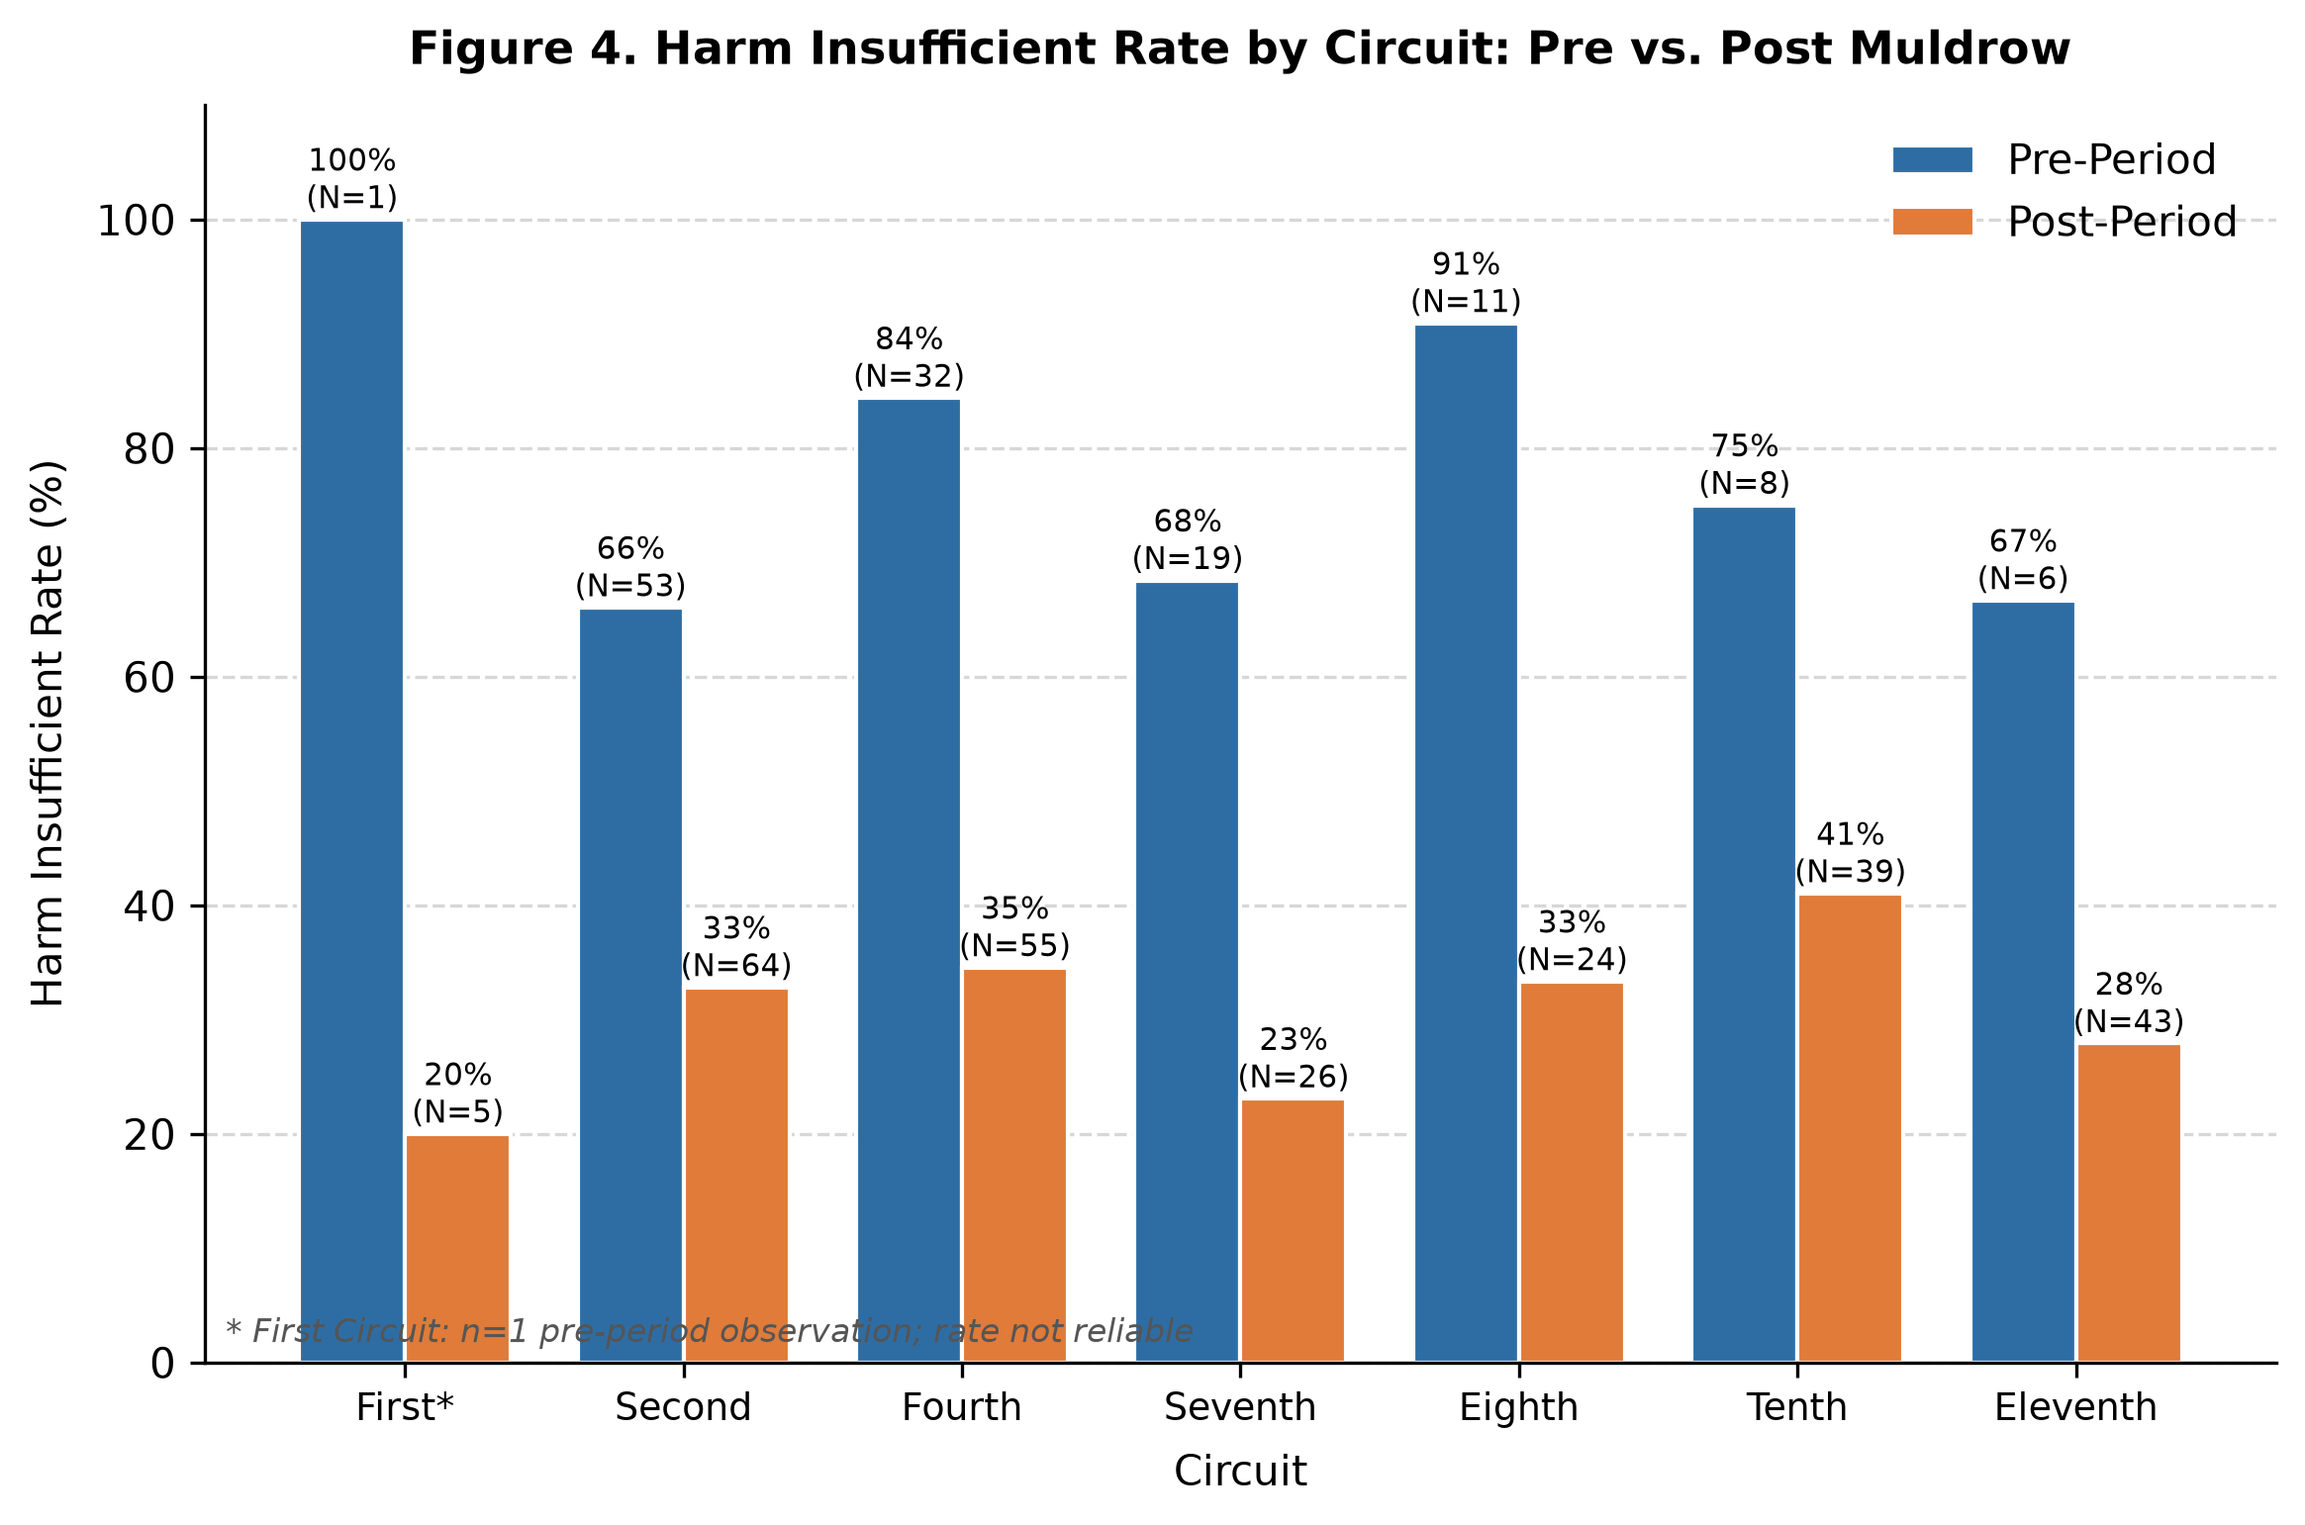
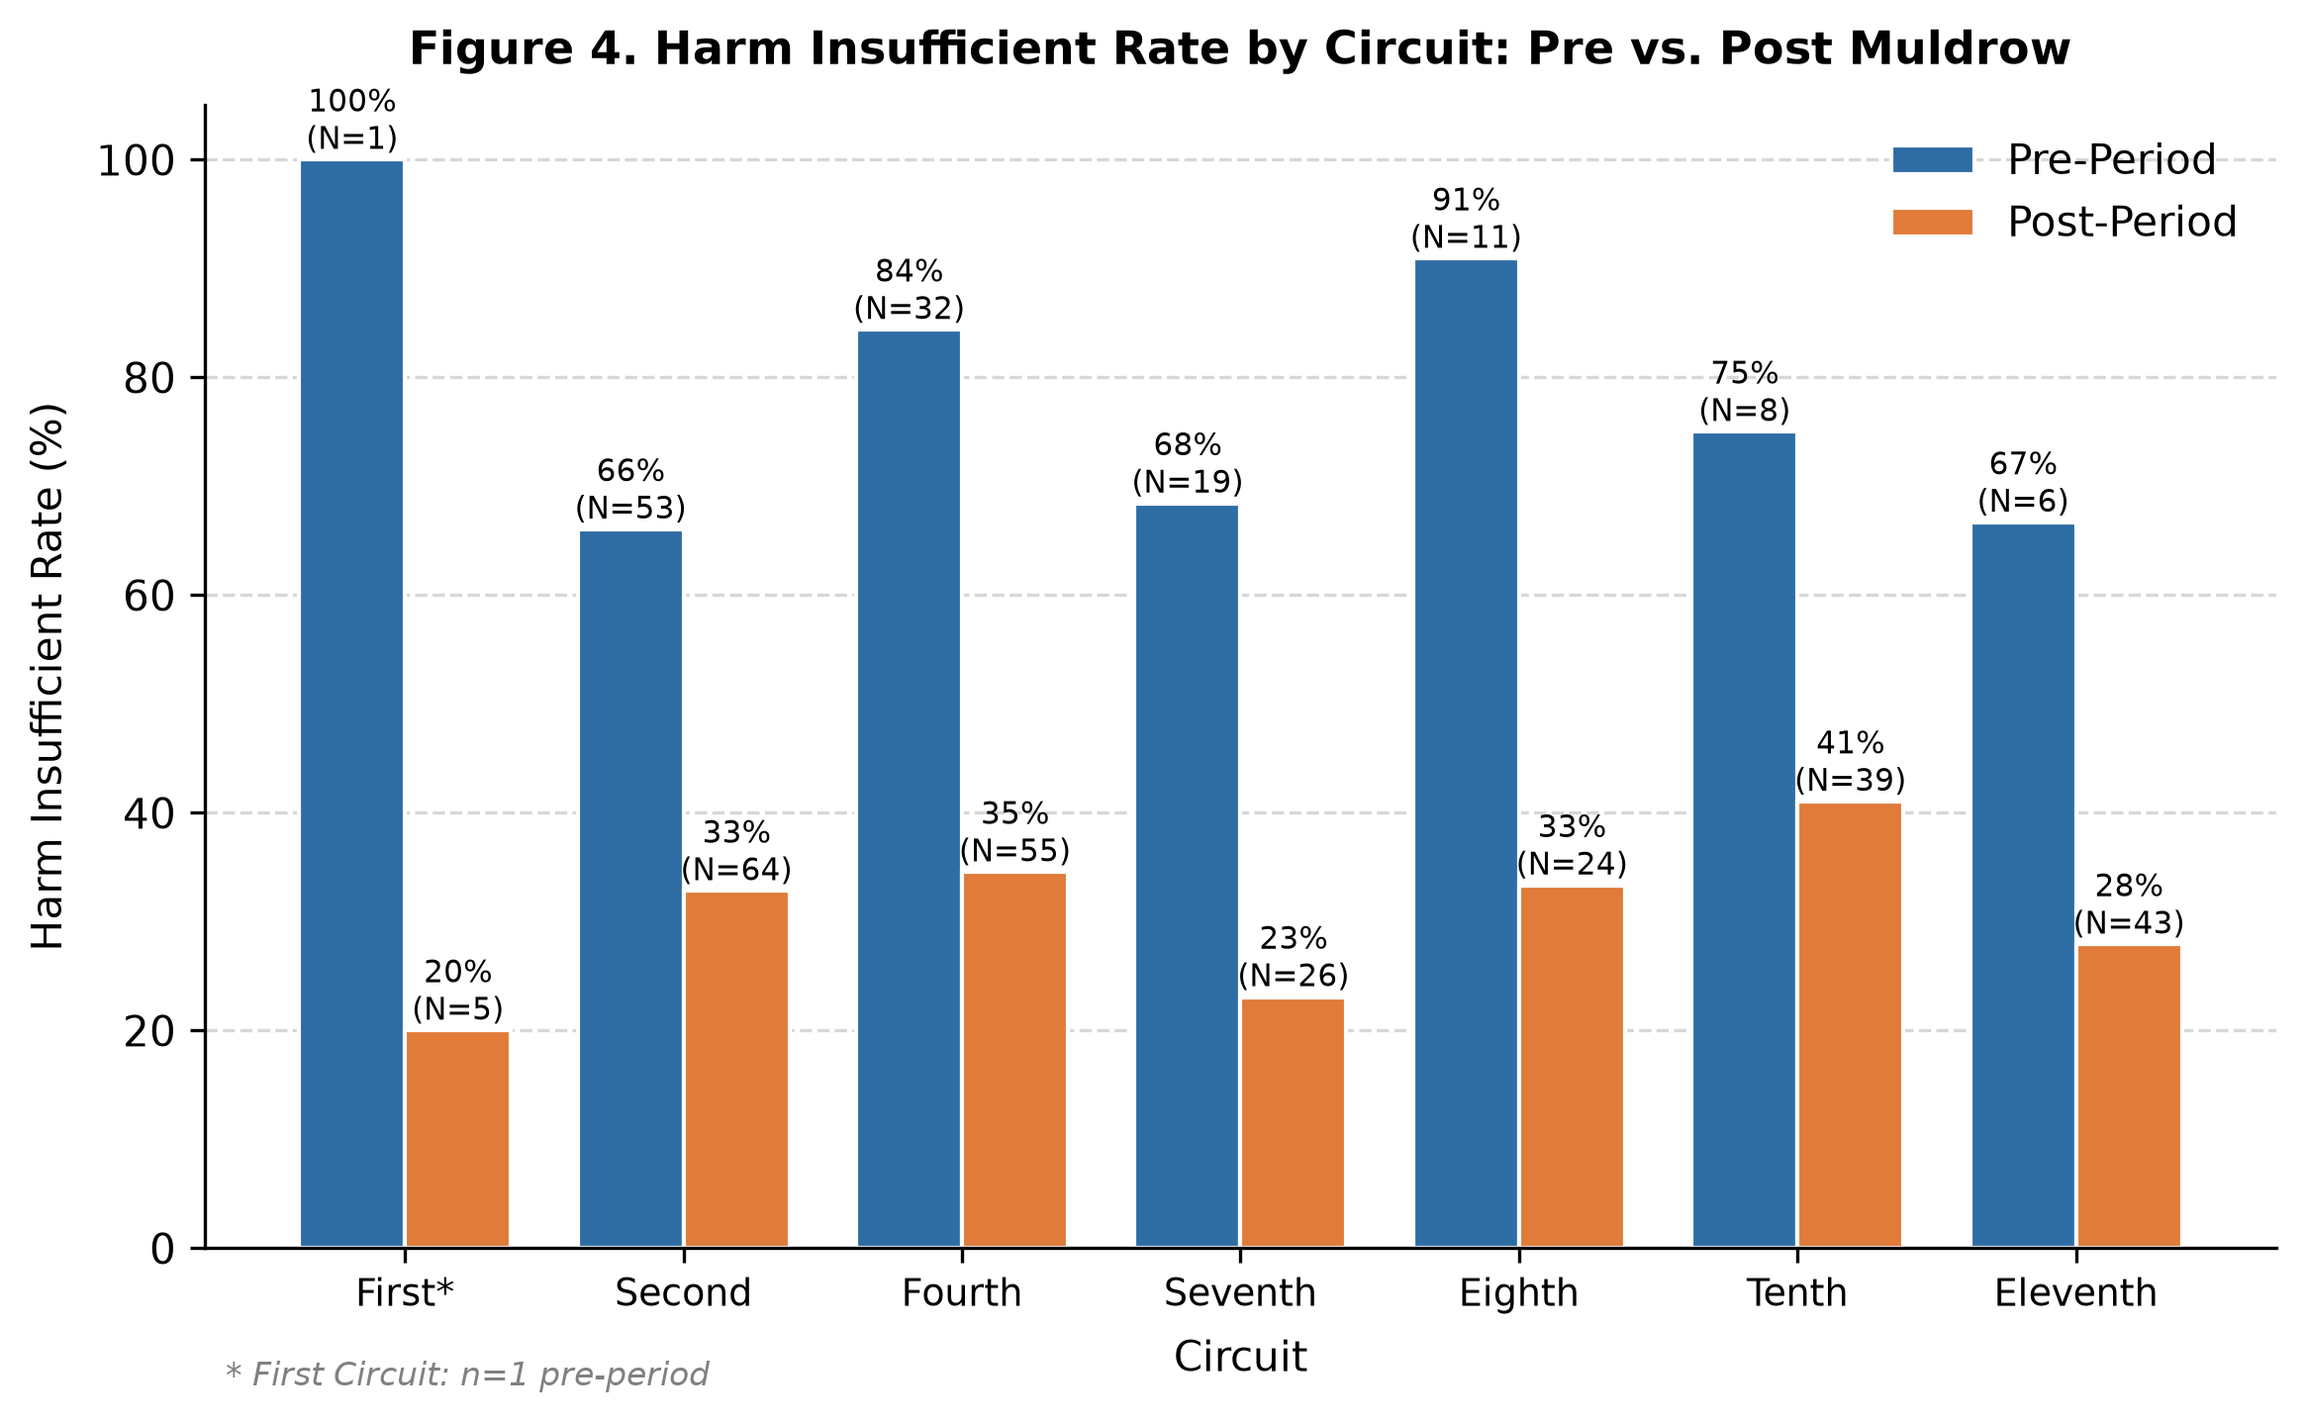
Fix dismissal basis coding: use corrected dataset where blanks are properly coded as plaintiff survived
Previously, blank values in Primary Basis for Dismissal were falling
through to fillna("Other"), inflating the Other category with cases where
the plaintiff's claim actually survived (no dismissal basis at all). The
corrected coding sheet now reflects the true values.

Also applies previously requested figure fixes:
- Fig 2: restricted to 3 categories (Harm Insuff., Causation Insuff., N/A Survived)
- Fig 4: First Circuit label marked with asterisk (n=1 pre-period footnote)
- Fig 5: restricted to adverse action types with ≥10 pre-period cases; 45° x-labels, 11pt font
- Table 8: replaced multinomial logit with binary logit (Causation vs Harm Insufficient; OR_post=4.606, p<.001)

diff --git a/muldrow_analysis.py b/muldrow_analysis.py
@@ -26,7 +26,7 @@ from openpyxl.utils.dataframe import dataframe_to_rows
 import os
 
 # ── Paths ─────────────────────────────────────────────────────────────────────
-INFILE  = "/root/.claude/uploads/39baeedb-fb1d-5fba-9c0a-9a900b672d1e/7eace2fa-muldrow_coding_sheet_cleaned.xlsx"
+INFILE  = "/root/.claude/uploads/39baeedb-fb1d-5fba-9c0a-9a900b672d1e/cf0bb9b3-muldrow_coding_sheet_cleaned.xlsx"
 OUTDIR  = "/home/user/Muldrow"
 XLOUT   = os.path.join(OUTDIR, "muldrow_tables.xlsx")
 MULDROW_DATE = pd.Timestamp("2024-04-17")
@@ -672,72 +672,64 @@ print(f"  Model 1 pseudo-R²={model1.prsquared:.3f}  N={int(model1.nobs)}")
 print(f"  Model 2 pseudo-R²={model2.prsquared:.3f}  N={int(model2.nobs)}")
 
 # ═════════════════════════════════════════════════════════════════════════════
-# STEP 8 — MULTINOMIAL LOGISTIC REGRESSION
+# STEP 8 — BINARY LOGISTIC REGRESSION: CAUSATION vs HARM INSUFFICIENT
 # ═════════════════════════════════════════════════════════════════════════════
-print("── Step 8: Multinomial Logistic Regression ──")
+print("── Step 8: Binary Logit (Causation vs Harm Insufficient) ──")
 
-ws8 = add_sheet("Table 8 — Multinomial Regression")
-ws8.merge_cells("A1:E1")
-ws8["A1"] = "Table 8. Multinomial Logistic Regression: Primary Basis for Dismissal"
+ws8 = add_sheet("Table 8 — Binary Logit")
+ws8.merge_cells("A1:D1")
+ws8["A1"] = "Table 8. Binary Logistic Regression: Causation Insufficient vs. Harm Insufficient"
 ws8["A1"].font = Font(bold=True, size=12, name="Calibri")
 ws8["A1"].alignment = Alignment(horizontal="center")
 
-mdf = df.copy()
-mdf = mdf.dropna(subset=["Primary Basis for Dismissal","Period (Pre/Post)","Circuit",
-                           "Primary Non-Economic Adverse Action","Employer Type",
-                           "Appointing President Party","Motion Type Decided"])
-mdf["post"] = (mdf["Period (Pre/Post)"] == "Post").astype(int)
-mdf["Dismissal_Clean"] = mdf["Primary Basis for Dismissal"].map(DISMISSAL_MAP).fillna("Other")
+bdf = df[df["Dismissal_Clean"].isin(["Causation Insufficient", "Harm Insufficient"])].copy()
+bdf["causation"] = (bdf["Dismissal_Clean"] == "Causation Insufficient").astype(int)
+bdf["post"]      = (bdf["Period (Pre/Post)"] == "Post").astype(int)
+bdf = bdf.dropna(subset=["Circuit", "Employer Type",
+                           "Appointing President Party", "Motion Type Decided"])
+bdf.columns = [re.sub(r"[^A-Za-z0-9_]", "_", c) for c in bdf.columns]
 
-# Clean column names
-mdf.columns = [re.sub(r"[^A-Za-z0-9_]", "_", c) for c in mdf.columns]
-
-mformula = ("Dismissal_Clean ~ post + C(Circuit) + "
-            "C(Primary_Non_Economic_Adverse_Action) + "
+bformula = ("causation ~ post + C(Circuit) + "
             "C(Employer_Type) + "
             "C(Appointing_President_Party) + "
             "C(Motion_Type_Decided)")
 
 try:
-    mmodel = smf.mnlogit(mformula, data=mdf).fit(disp=False, maxiter=300)
+    bmodel = smf.logit(bformula, data=bdf).fit(method="bfgs", maxiter=1000, disp=False)
 
-    for c, h in enumerate(["Variable","Relative Risk Ratio","95% CI","p-value","Outcome Category"], 1):
+    for c, h in enumerate(["Variable", "Odds Ratio", "95% CI", "p-value"], 1):
         cell = ws8.cell(row=2, column=c, value=h)
         cell.fill = HDR_FILL; cell.font = HDR_FONT
         cell.alignment = Alignment(horizontal="center", vertical="center", wrap_text=True)
 
     r = 3
-    outcomes = [o for o in DISMISSAL_ORDER if o != "Harm Insufficient"]  # ref category
-    for j, outcome in enumerate(outcomes):
-        cell = ws8.cell(row=r, column=1, value=f"Outcome: {outcome}")
-        cell.fill = SUBHDR_FILL
-        cell.font = Font(bold=True, color="FFFFFF", name="Calibri", size=10)
-        for c in range(2, 6):
-            ws8.cell(row=r, column=c).fill = SUBHDR_FILL
+    params = bmodel.params
+    conf   = bmodel.conf_int()
+    pvals  = bmodel.pvalues
+    for i, name in enumerate(params.index):
+        OR    = np.exp(params[name])
+        lo    = np.exp(conf.loc[name, 0])
+        hi    = np.exp(conf.loc[name, 1])
+        p     = pvals[name]
+        stars = sig_label(p)
+        fill  = ALT_FILL if i % 2 == 0 else WHITE_FILL
+        write_row(ws8, r, [name, f"{OR:.3f}", f"[{lo:.3f}, {hi:.3f}]", f"{p:.3f}{stars}"], fill=fill)
         r += 1
-        params_j = mmodel.params.iloc[:, j]
-        conf_j   = mmodel.conf_int().xs(j+1, level=0)  # MNLogit conf_int structure
-        pvals_j  = mmodel.pvalues.iloc[:, j]
-        for i, name in enumerate(params_j.index):
-            RRR  = np.exp(params_j[name])
-            try:
-                lo = np.exp(conf_j.loc[name, "lower"])
-                hi = np.exp(conf_j.loc[name, "upper"])
-                ci = f"[{lo:.3f}, {hi:.3f}]"
-            except Exception:
-                ci = "—"
-            p    = pvals_j[name]
-            stars= sig_label(p)
-            fill = ALT_FILL if i % 2 == 0 else WHITE_FILL
-            write_row(ws8, r, [name, f"{RRR:.3f}", ci, f"{p:.3f}{stars}", outcome], fill=fill)
-            r += 1
 
-    add_note(ws8, r, "Note: Reference category = Harm Insufficient.  Relative risk ratios reported.  * p<0.05  ** p<0.01  *** p<0.001")
+    add_note(ws8, r,
+             f"Note: N={int(bmodel.nobs)}. Outcome=1 if Causation Insufficient, 0 if Harm Insufficient. "
+             "Sample restricted to dismissed cases coded as either Causation Insufficient or Harm Insufficient. "
+             "Reference categories: Circuit=Eighth, Employer=Government-Federal, Party=Democrat, Motion=12(b)(6). "
+             f"Pseudo-R²={bmodel.prsquared:.3f}.  * p<0.05  ** p<0.01  *** p<0.001")
+
+    if "post" in params.index:
+        print(f"  OR_post={np.exp(params['post']):.3f}  p={pvals['post']:.4f}")
+
 except Exception as e:
-    ws8.cell(row=3, column=1, value=f"Model failed to converge: {e}")
-    print(f"  Multinomial model note: {e}")
+    ws8.cell(row=3, column=1, value=f"Model failed: {e}")
+    print(f"  Binary logit error: {e}")
 
-for col_ltr, w in zip(["A","B","C","D","E"], [55,18,22,14,28]):
+for col_ltr, w in zip(["A","B","C","D"], [55,14,22,14]):
     ws8.column_dimensions[col_ltr].width = w
 
 # ═════════════════════════════════════════════════════════════════════════════
@@ -856,31 +848,34 @@ ax.yaxis.grid(True, linestyle="--", alpha=0.5, zorder=0)
 ax.set_axisbelow(True)
 save_fig(fig, "fig1_harm_finding_pre_post")
 
-# ── Fig 2: Pre vs Post — Primary Basis for Dismissal ─────────────────────────
-fig, ax = plt.subplots(figsize=(9, 5))
+# ── Fig 2: Pre vs Post — Primary Basis for Dismissal (3 categories) ──────────
+FIG2_CATS = ["Harm Insufficient", "Causation Insufficient", "N/A — Plaintiff Survived"]
+pre_fig2  = pre[pre["Dismissal_Clean"].isin(FIG2_CATS)]
+post_fig2 = post[post["Dismissal_Clean"].isin(FIG2_CATS)]
+
+fig, ax = plt.subplots(figsize=(8, 5))
 counts2 = pd.DataFrame({
-    "Pre":  pre["Dismissal_Clean"].value_counts().reindex(DISMISSAL_ORDER, fill_value=0),
-    "Post": post["Dismissal_Clean"].value_counts().reindex(DISMISSAL_ORDER, fill_value=0),
+    "Pre":  pre_fig2["Dismissal_Clean"].value_counts().reindex(FIG2_CATS, fill_value=0),
+    "Post": post_fig2["Dismissal_Clean"].value_counts().reindex(FIG2_CATS, fill_value=0),
 })
 pcts2 = counts2.div(counts2.sum()) * 100
 
-x2 = np.arange(len(DISMISSAL_ORDER))
-bars_pre2  = ax.bar(x2 - w/2, pcts2["Pre"],  w, label=f"Pre-Period (N={N_pre})",  color=BLUE,   edgecolor="white")
-bars_post2 = ax.bar(x2 + w/2, pcts2["Post"], w, label=f"Post-Period (N={N_post})", color=ORANGE, edgecolor="white")
+x2 = np.arange(len(FIG2_CATS))
+bars_pre2  = ax.bar(x2 - w/2, pcts2["Pre"],  w, label=f"Pre-Period (N={len(pre_fig2)})",  color=BLUE,   edgecolor="white")
+bars_post2 = ax.bar(x2 + w/2, pcts2["Post"], w, label=f"Post-Period (N={len(post_fig2)})", color=ORANGE, edgecolor="white")
 
 for bars in [bars_pre2, bars_post2]:
     for bar in bars:
         h = bar.get_height()
         if h > 2:
             ax.text(bar.get_x() + bar.get_width()/2, h + 0.5, f"{h:.1f}%",
-                    ha="center", va="bottom", fontsize=7.5, fontweight="bold")
+                    ha="center", va="bottom", fontsize=8.5, fontweight="bold")
 
-short_labels = ["Harm\nInsuff.", "Causation\nInsuff.", "N/A —\nSurvived",
-                "Pleading\nDeficiency", "Other"]
+short_labels = ["Harm\nInsuff.", "Causation\nInsuff.", "N/A —\nSurvived"]
 ax.set_xticks(x2)
-ax.set_xticklabels(short_labels, fontsize=9)
+ax.set_xticklabels(short_labels, fontsize=10)
 ax.set_xlabel("Primary Basis for Dismissal", labelpad=6)
-ax.set_ylabel("Percentage of Cases (%)", labelpad=6)
+ax.set_ylabel("Percentage of Cases with Recorded Basis (%)", labelpad=6)
 ax.set_title("Figure 2. Primary Basis for Dismissal: Pre- vs. Post-Muldrow", pad=10)
 ax.set_ylim(0, max(pcts2.values.max() * 1.18, 10))
 ax.legend(frameon=False)
@@ -948,8 +943,9 @@ for xi, (pre_v, post_v, np_, nq_) in enumerate(zip(circ_pre_insuff, circ_post_in
     ax.text(xi - bw/2, pre_v + 1, f"{pre_v:.0f}%\n(N={np_})",  ha="center", fontsize=7.5)
     ax.text(xi + bw/2, post_v+ 1, f"{post_v:.0f}%\n(N={nq_})", ha="center", fontsize=7.5)
 
+circ_labels = [f"First*" if c == "First" else c for c in circuits]
 ax.set_xticks(xc)
-ax.set_xticklabels(circuits, fontsize=9)
+ax.set_xticklabels(circ_labels, fontsize=9)
 ax.set_xlabel("Circuit", labelpad=6)
 ax.set_ylabel("Harm Insufficient Rate (%)", labelpad=6)
 ax.set_title("Figure 4. Harm Insufficient Rate by Circuit: Pre vs. Post Muldrow", pad=10)
@@ -957,41 +953,49 @@ ax.set_ylim(0, 105)
 ax.legend(frameon=False)
 ax.yaxis.grid(True, linestyle="--", alpha=0.5, zorder=0)
 ax.set_axisbelow(True)
+ax.text(0.01, -0.12, "* First Circuit: n=1 pre-period", transform=ax.transAxes,
+        fontsize=8, color="grey", style="italic")
 save_fig(fig, "fig4_circuit_harm_insufficient")
 
-# ── Fig 5: Harm Insufficient Rate by Adverse Action Type ─────────────────────
-fig, ax = plt.subplots(figsize=(11, 5))
+# ── Fig 5: Harm Insufficient Rate by Adverse Action Type (≥10 pre-period) ─────
+col_aa = "Primary Non-Economic Adverse Action"
+# Restrict to categories with ≥10 pre-period cases
+fig5_actions = [act for act in actions_sorted
+                if (pre[col_aa] == act).sum() >= 10]
+
 aa_pre_insuff  = []
 aa_post_insuff = []
 aa_n_pre, aa_n_post = [], []
-for act in actions_sorted:
-    dp = pre[pre["Primary Non-Economic Adverse Action"]  == act]
-    dq = post[post["Primary Non-Economic Adverse Action"] == act]
+for act in fig5_actions:
+    dp = pre[pre[col_aa]  == act]
+    dq = post[post[col_aa] == act]
     aa_n_pre.append(len(dp))
     aa_n_post.append(len(dq))
     aa_pre_insuff.append(100*(dp["Court Finding on Harm"]=="Insufficient").sum()/len(dp) if len(dp) else 0)
     aa_post_insuff.append(100*(dq["Court Finding on Harm"]=="Insufficient").sum()/len(dq) if len(dq) else 0)
 
-xa = np.arange(len(actions_sorted))
+fig, ax = plt.subplots(figsize=(11, 5))
+xa = np.arange(len(fig5_actions))
 bwa = 0.38
 ax.bar(xa - bwa/2, aa_pre_insuff,  bwa, label="Pre-Period",  color=BLUE,   edgecolor="white")
 ax.bar(xa + bwa/2, aa_post_insuff, bwa, label="Post-Period", color=ORANGE, edgecolor="white")
 
-short_aa = [a.replace(" / ", "/\n") for a in actions_sorted]
+short_aa = [a.replace(" / ", "/\n") for a in fig5_actions]
 ax.set_xticks(xa)
-ax.set_xticklabels(short_aa, fontsize=7.5, rotation=25, ha="right")
+ax.set_xticklabels(short_aa, fontsize=11, rotation=45, ha="right")
 ax.set_xlabel("Adverse Action Type", labelpad=6)
 ax.set_ylabel("Harm Insufficient Rate (%)", labelpad=6)
 ax.set_title("Figure 5. Harm Insufficient Rate by Adverse Action Type: Pre vs. Post Muldrow", pad=10)
-ax.set_ylim(0, 110)
+ax.set_ylim(0, 115)
 for xi, (pre_v, post_v, np_, nq_) in enumerate(zip(aa_pre_insuff, aa_post_insuff, aa_n_pre, aa_n_post)):
     if np_ > 0:
-        ax.text(xi - bwa/2, pre_v + 1.5, f"N={np_}", ha="center", fontsize=6.5, color=BLUE)
+        ax.text(xi - bwa/2, pre_v + 1.5, f"N={np_}", ha="center", fontsize=7, color=BLUE)
     if nq_ > 0:
-        ax.text(xi + bwa/2, post_v + 1.5, f"N={nq_}", ha="center", fontsize=6.5, color=ORANGE)
+        ax.text(xi + bwa/2, post_v + 1.5, f"N={nq_}", ha="center", fontsize=7, color=ORANGE)
 ax.legend(frameon=False)
 ax.yaxis.grid(True, linestyle="--", alpha=0.5, zorder=0)
 ax.set_axisbelow(True)
+plt.tight_layout()
 save_fig(fig, "fig5_adverse_action_harm_insufficient")
 
 print("\n═══ All steps complete ═══")
